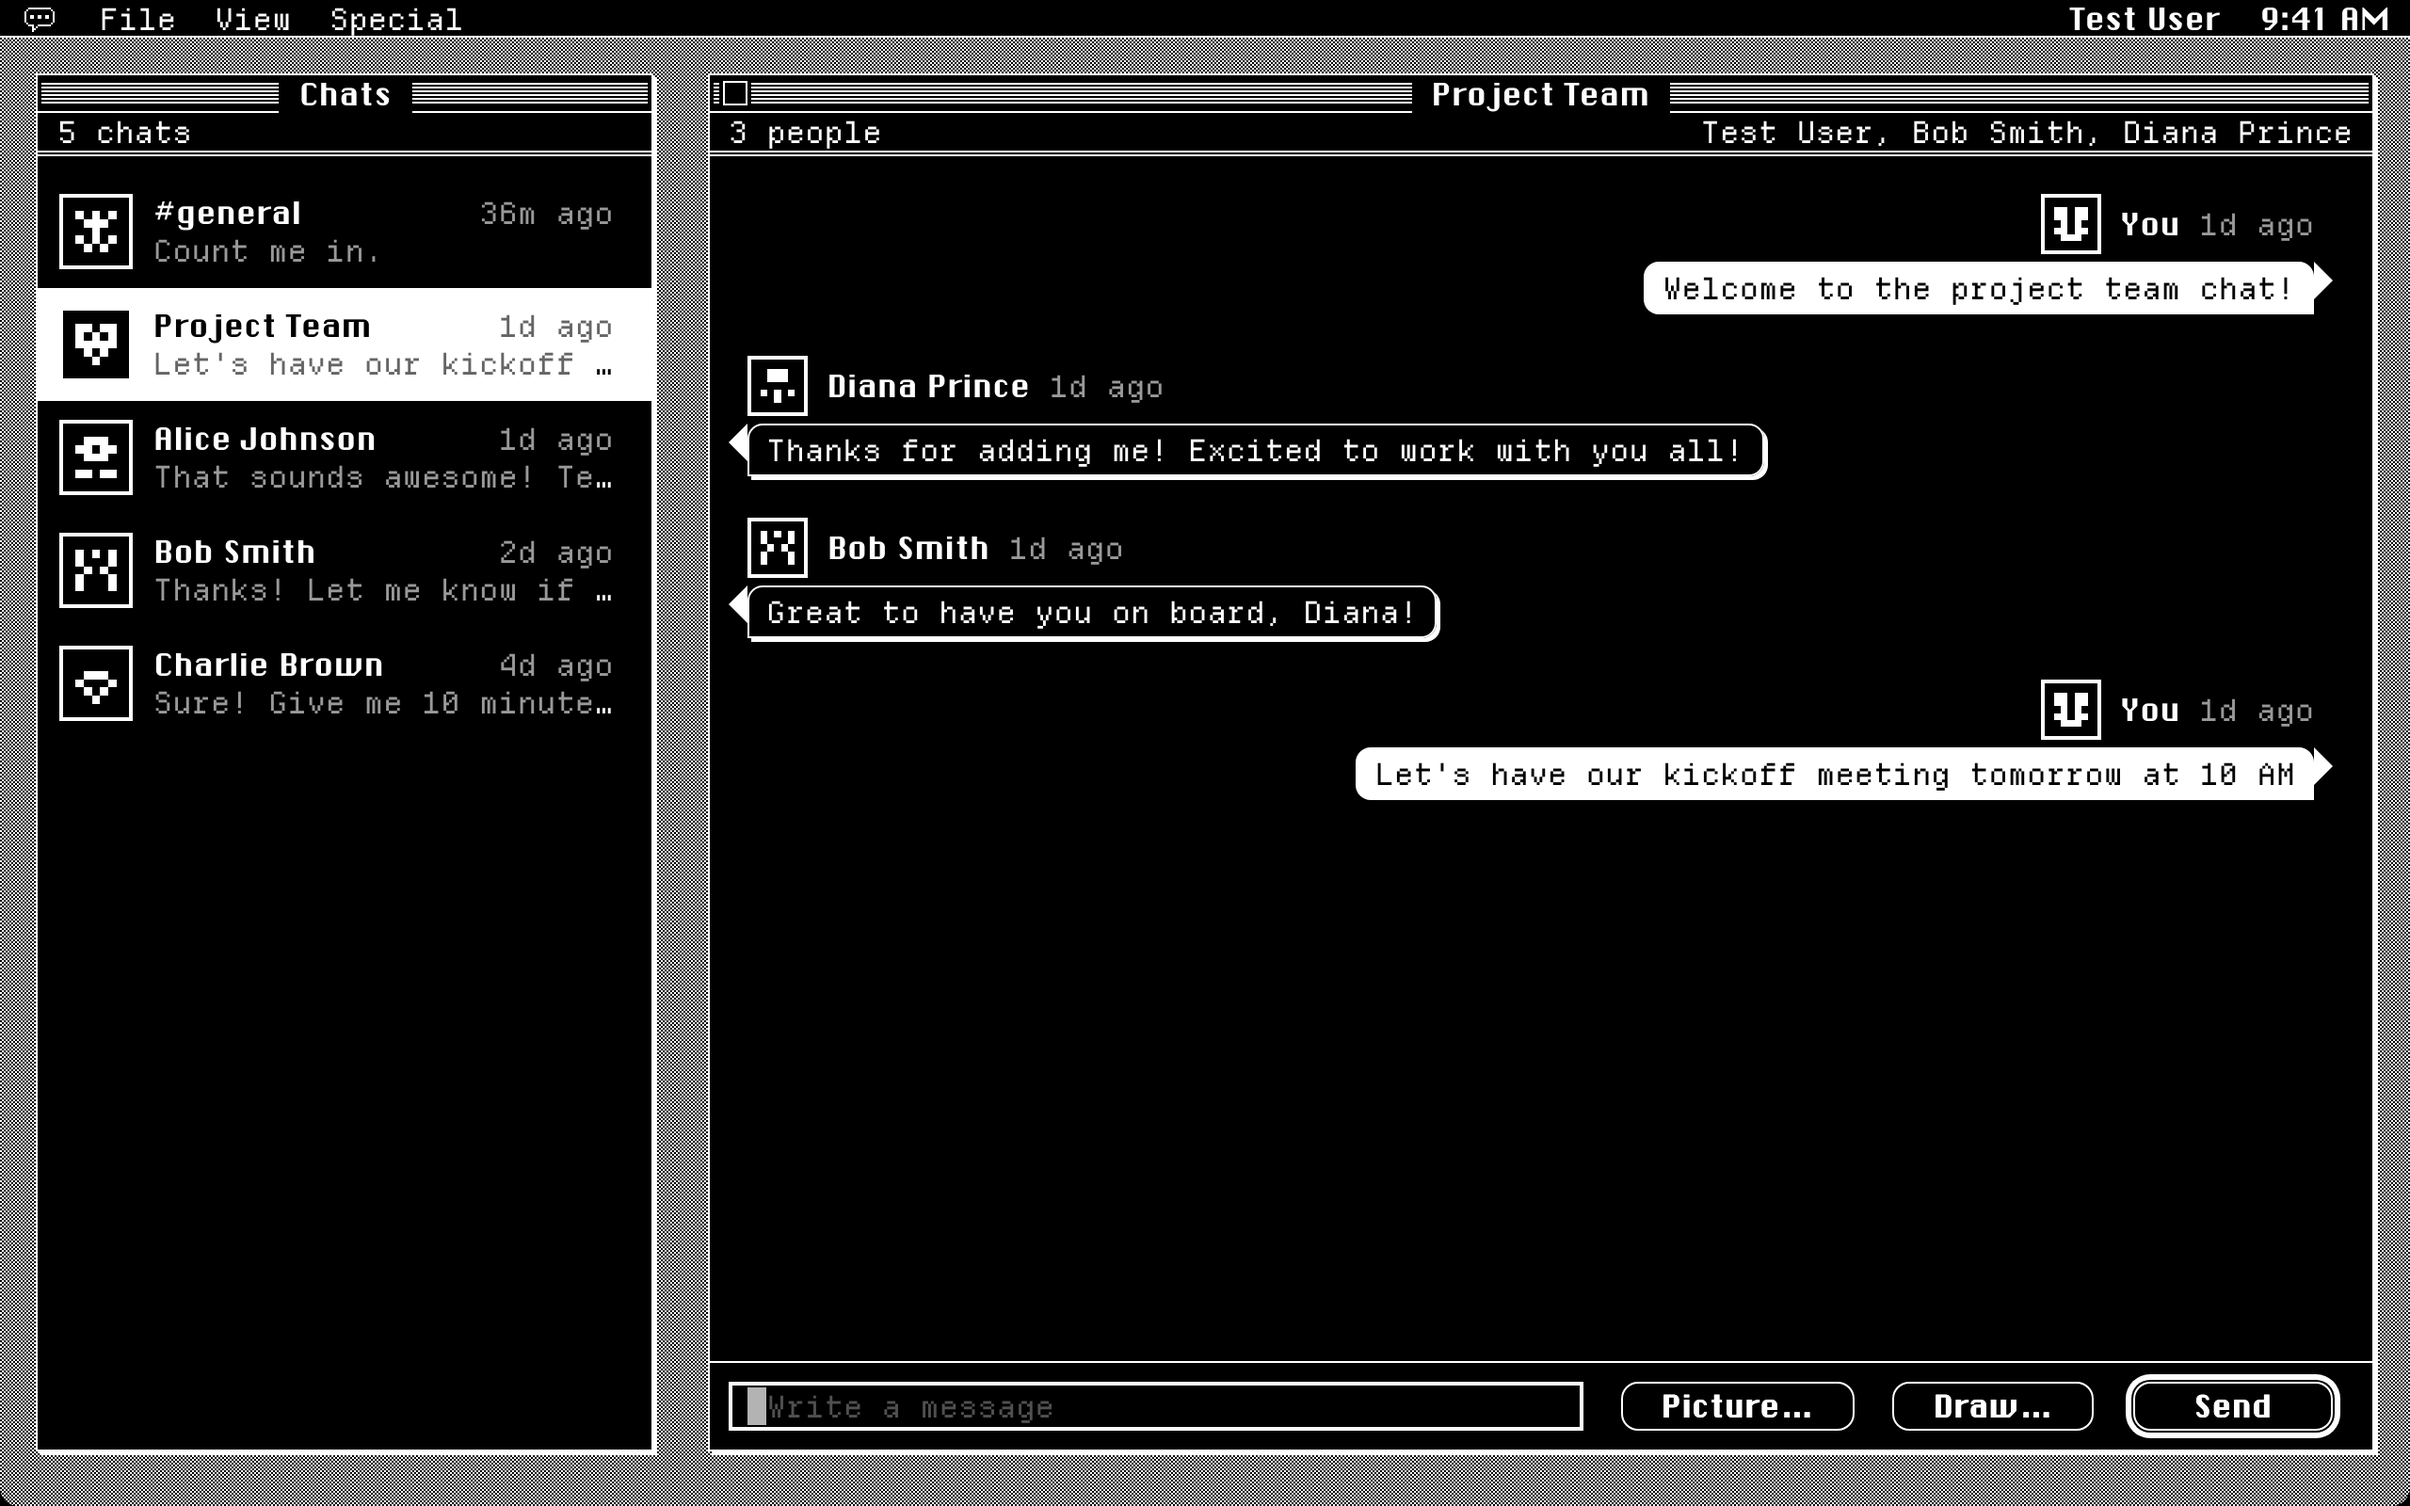
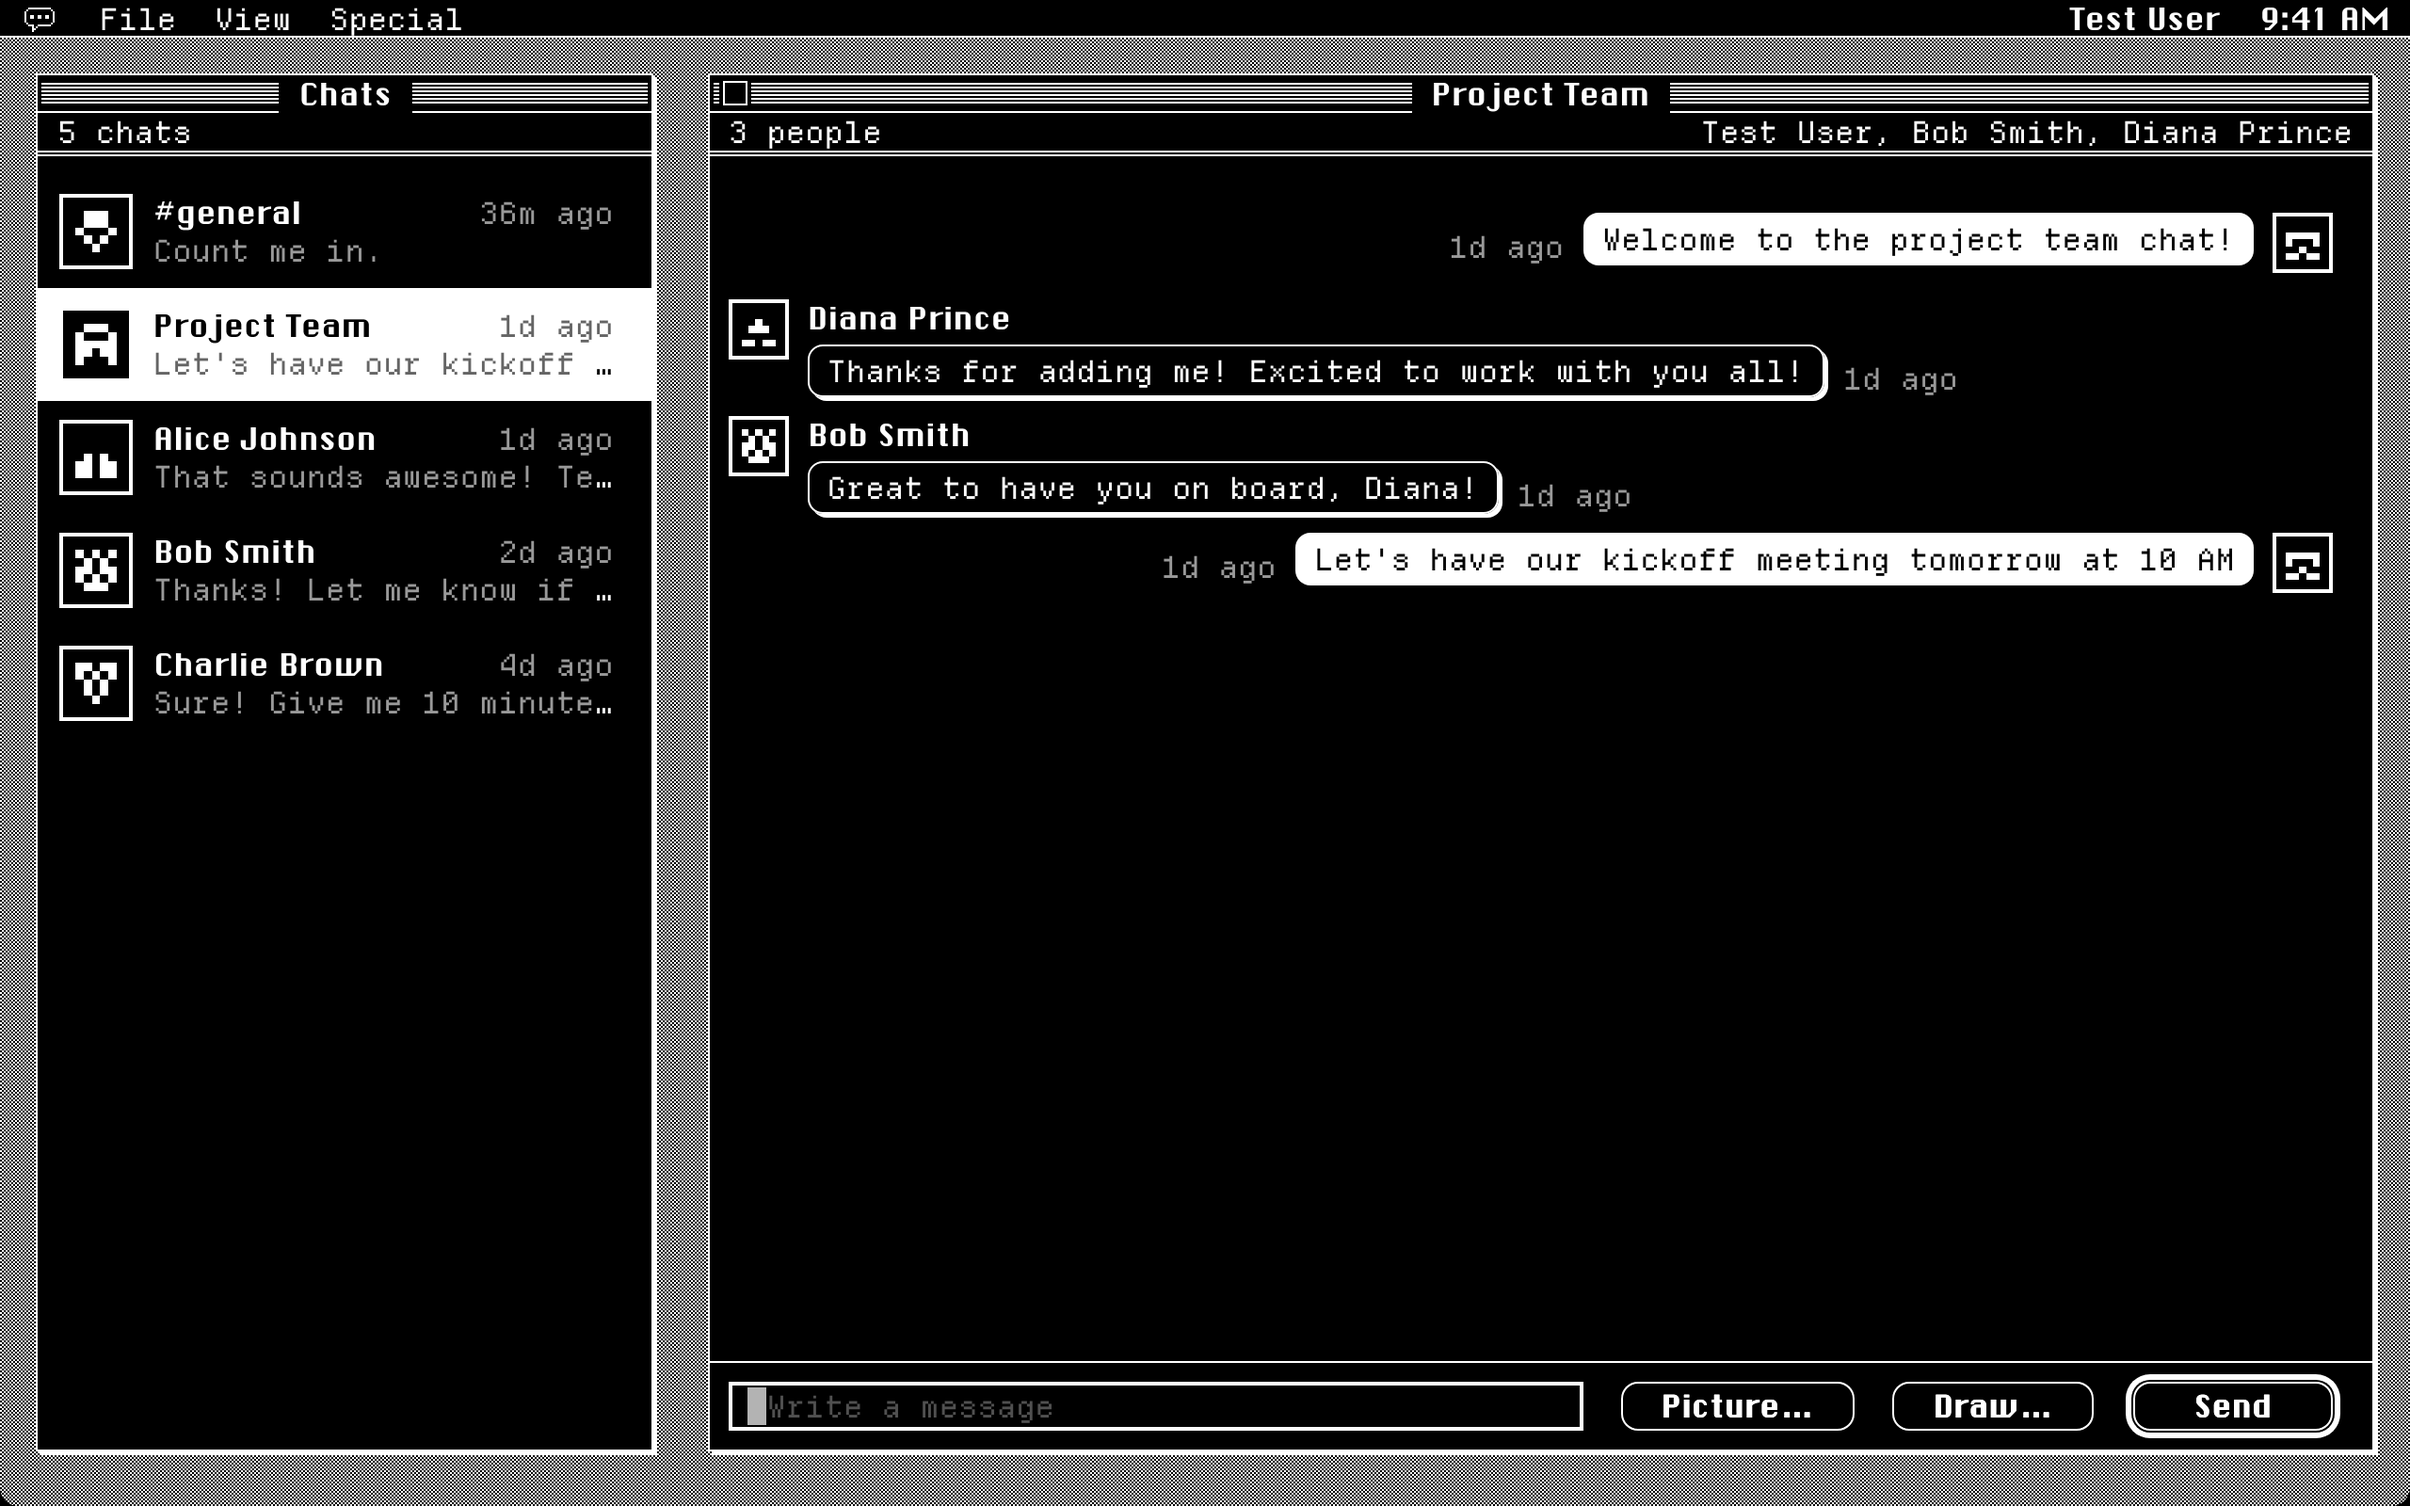
Faces in front of messages; names only in groups; no tails
Each run of messages starts with its sender's face beside the bubble,
theirs on the left and yours on the right, with the time next to it, so
there's no row above. Groups and channels still name others above their
runs; direct chats need no names, and "You" is gone. The bubbles' tails
are gone too: the face says whose it is.

diff --git a/apps/frontend/src/app/components/chat/MessageBubble.tsx b/apps/frontend/src/app/components/chat/MessageBubble.tsx
@@ -21,8 +21,10 @@ interface MessageBubbleProps {
     createdAt: string;
   };
   isCurrentUser: boolean;
-  /** Label the bubble with its sender and time; off for follow-ups in a run. */
+  /** The first of a run from one sender: it shows their face and the time. */
   showMeta: boolean;
+  /** Name the sender above the run: in groups and channels, not direct chats. */
+  showName: boolean;
   /** Opens the paint window on a picture; offered under each one. */
   onDrawOnIt?: (picture: WirePicture) => void;
 }
@@ -32,6 +34,7 @@ export function MessageBubble({
   message,
   isCurrentUser,
   showMeta,
+  showName,
   onDrawOnIt,
 }: MessageBubbleProps) {
   const Bubble = isCurrentUser ? MessageViewer : Message;
@@ -40,60 +43,67 @@ export function MessageBubble({
   const content = message.content ?? '';
 
   return (
-    <>
-      {showMeta && (
-        <div className={isCurrentUser ? styles.metaOwn : styles.meta}>
-          <Face person={message.sender} />
+    <div
+      className={`${isCurrentUser ? styles.own : styles.theirs} ${
+        showMeta ? styles.first : ''
+      }`}
+    >
+      {/* Follow-ups keep the face's place, so a run lines up. */}
+      <div className={styles.face}>
+        {showMeta && <Face person={message.sender} />}
+      </div>
+      <div className={styles.body}>
+        {showMeta && showName && !isCurrentUser && (
           <span className={styles.sender}>
-            {isCurrentUser ? 'You' : <PixelText text={message.sender.name} />}
-          </span>
-          <time className={styles.time} dateTime={message.createdAt}>
-            {formatTime(message.createdAt, now)}
-          </time>
-        </div>
-      )}
-      {firstLink(content) && (
-        <div className={isCurrentUser ? styles.metaOwn : styles.meta}>
-          <LinkPreviewCard messageId={message.id} />
-        </div>
-      )}
-      <Bubble>
-        {picture && <MessagePicture picture={picture} />}
-        {content && (
-          <span
-            className={styles.content}
-            title={new Date(message.createdAt).toLocaleString()}
-          >
-            {isOnlyEmoji(content) ? (
-              <PixelText text={content} size={32} />
-            ) : (
-              splitLinks(content).map((piece, i) =>
-                'link' in piece ? (
-                  <a
-                    key={i}
-                    className={styles.link}
-                    href={piece.link}
-                    target="_blank"
-                    rel="noopener noreferrer"
-                  >
-                    {piece.link}
-                  </a>
-                ) : (
-                  <PixelText key={i} text={piece.text} />
-                )
-              )
-            )}
+            <PixelText text={message.sender.name} />
           </span>
         )}
-      </Bubble>
-      {/* Under the bubble, not in it: the viewer's bubbles are inverted. */}
-      {picture && onDrawOnIt && (
-        <div className={isCurrentUser ? styles.metaOwn : styles.meta}>
-          <ActionButton onClick={() => onDrawOnIt(picture)}>
-            Draw on It
-          </ActionButton>
+        {firstLink(content) && <LinkPreviewCard messageId={message.id} />}
+        <div className={styles.line}>
+          <Bubble>
+            {picture && <MessagePicture picture={picture} />}
+            {content && (
+              <span
+                className={styles.content}
+                title={new Date(message.createdAt).toLocaleString()}
+              >
+                {isOnlyEmoji(content) ? (
+                  <PixelText text={content} size={32} />
+                ) : (
+                  splitLinks(content).map((piece, i) =>
+                    'link' in piece ? (
+                      <a
+                        key={i}
+                        className={styles.link}
+                        href={piece.link}
+                        target="_blank"
+                        rel="noopener noreferrer"
+                      >
+                        {piece.link}
+                      </a>
+                    ) : (
+                      <PixelText key={i} text={piece.text} />
+                    )
+                  )
+                )}
+              </span>
+            )}
+          </Bubble>
+          {showMeta && (
+            <time className={styles.time} dateTime={message.createdAt}>
+              {formatTime(message.createdAt, now)}
+            </time>
+          )}
         </div>
-      )}
-    </>
+        {/* Under the bubble, not in it: the viewer's bubbles are inverted. */}
+        {picture && onDrawOnIt && (
+          <div className={styles.under}>
+            <ActionButton onClick={() => onDrawOnIt(picture)}>
+              Draw on It
+            </ActionButton>
+          </div>
+        )}
+      </div>
+    </div>
   );
 }

diff --git a/apps/frontend/src/app/components/chat/MessageBubble.module.css b/apps/frontend/src/app/components/chat/MessageBubble.module.css
@@ -1,19 +1,52 @@
-.meta,
-.metaOwn {
+/* A message: the sender's face in front, then the bubble, its time beside it.
+   Theirs on the left, the viewer's mirrored on the right. */
+.theirs,
+.own {
   display: flex;
-  align-items: center;
+  align-items: flex-start;
   gap: 1ch;
   margin-bottom: 4px;
 }
 
-/* Inset by the 1ch speech-bubble tail, so labels line up with bubbles. */
-.meta {
-  padding-left: 1ch;
+.own {
+  flex-direction: row-reverse;
 }
 
-.metaOwn {
-  justify-content: flex-end;
-  padding-right: 1ch;
+/* A new run starts a little apart from the last. */
+.first {
+  margin-top: calc(var(--line) * 0.5);
+}
+
+.face {
+  flex-shrink: 0;
+  width: 32px;
+}
+
+.body {
+  display: flex;
+  flex-direction: column;
+  align-items: flex-start;
+  gap: 4px;
+  min-width: 0;
+}
+
+.own .body {
+  align-items: flex-end;
+}
+
+.line {
+  display: flex;
+  align-items: flex-end;
+  gap: 1ch;
+  max-width: 100%;
+
+  & > * {
+    min-width: 0;
+  }
+}
+
+.own .line {
+  flex-direction: row-reverse;
 }
 
 .sender {
@@ -21,7 +54,9 @@
 }
 
 .time {
+  flex-shrink: 0;
   opacity: 0.6;
+  white-space: nowrap;
 }
 
 .content {

diff --git a/apps/e2e/tests/profile.spec.ts b/apps/e2e/tests/profile.spec.ts
@@ -118,3 +118,24 @@ test('a drawn face, then the pattern back once it is removed', async ({
   await chooseMenu(page, 'File', 'Profile…');
   await expect(face(page)).not.toHaveAttribute('data-picture');
 });
+
+test('faces lead each run; only chats of more than two name the sender', async ({
+  page,
+}) => {
+  await page.goto('/login');
+  await signIn(page, 'alice@example.com');
+  const log = (title: string) =>
+    chatWindow(page, title).getByRole('log', { name: 'Messages' });
+
+  // In #general others are named above their runs, the viewer never.
+  await chatsWindow(page).getByText('#general', { exact: true }).click();
+  await expect(log('#general').getByText('Charlie Brown')).toBeVisible();
+  await expect(log('#general').getByText('You', { exact: true })).toHaveCount(
+    0
+  );
+
+  // A direct chat needs no names: each run is just a face and its bubbles.
+  await chatsWindow(page).getByText('Test User', { exact: true }).click();
+  await expect(log('Test User').getByText('Test User')).toHaveCount(0);
+  await expect(log('Test User').locator('img').first()).toBeVisible();
+});

diff --git a/apps/frontend/src/skin.css b/apps/frontend/src/skin.css
@@ -373,21 +373,35 @@ a:focus {
   }
 }
 
-/* Speech bubbles: theirs outlined on the left, yours inverted on the right. */
+/* Speech bubbles: theirs outlined on the left, yours inverted on the right.
+   No tails: the sender's face sits beside each run instead. MessageBubble
+   lays out the row; the bubble only holds its contents. */
+:root .srcl-Message__message,
+:root .srcl-MessageViewer__message {
+  margin-bottom: 0;
+}
+
+:root .srcl-Message__left,
+:root .srcl-MessageViewer__right {
+  display: none;
+}
+
+:root .srcl-Message__right,
+:root .srcl-MessageViewer__left {
+  width: auto;
+  min-width: 0;
+}
+
 :root .srcl-Message__bubble {
   padding: 4px 1ch;
-  border-radius: 8px 8px 8px 0;
+  border-radius: 8px;
   background: var(--paper);
   box-shadow: inset 0 0 0 1px var(--ink), 2px 2px 0 var(--ink);
 }
 
-:root .srcl-Message__triangle {
-  border-right-color: var(--ink);
-}
-
 :root .srcl-MessageViewer__bubble {
   padding: 4px 1ch;
-  border-radius: 8px 8px 0 8px;
+  border-radius: 8px;
   background: var(--ink);
   color: var(--paper);
 }

diff --git a/apps/frontend/src/app/components/chat/MessageList.tsx b/apps/frontend/src/app/components/chat/MessageList.tsx
@@ -34,12 +34,15 @@ export const GET_CHAT_MESSAGES = gql(`
 interface MessageListProps {
   chatId: string;
   currentUserId: string | undefined;
+  /** Name each run's sender: in groups and channels, not direct chats. */
+  showNames: boolean;
   onDrawOnIt?: (picture: WirePicture) => void;
 }
 
 export function MessageList({
   chatId,
   currentUserId,
+  showNames,
   onDrawOnIt,
 }: MessageListProps) {
   const messagesEndRef = useRef<HTMLDivElement>(null);
@@ -92,6 +95,7 @@ export function MessageList({
           message={message}
           isCurrentUser={message.sender.id === currentUserId}
           showMeta={messages[index - 1]?.sender.id !== message.sender.id}
+          showName={showNames}
           onDrawOnIt={onDrawOnIt}
         />
       ))}

diff --git a/apps/frontend/src/app/components/chat/ChatWindow.tsx b/apps/frontend/src/app/components/chat/ChatWindow.tsx
@@ -138,6 +138,7 @@ export function ChatWindow({
         <MessageList
           chatId={chatId}
           currentUserId={currentUserId}
+          showNames={!!chat && chat.kind !== ChatKind.Direct}
           onDrawOnIt={drawOn}
         />
         <MessageInput
